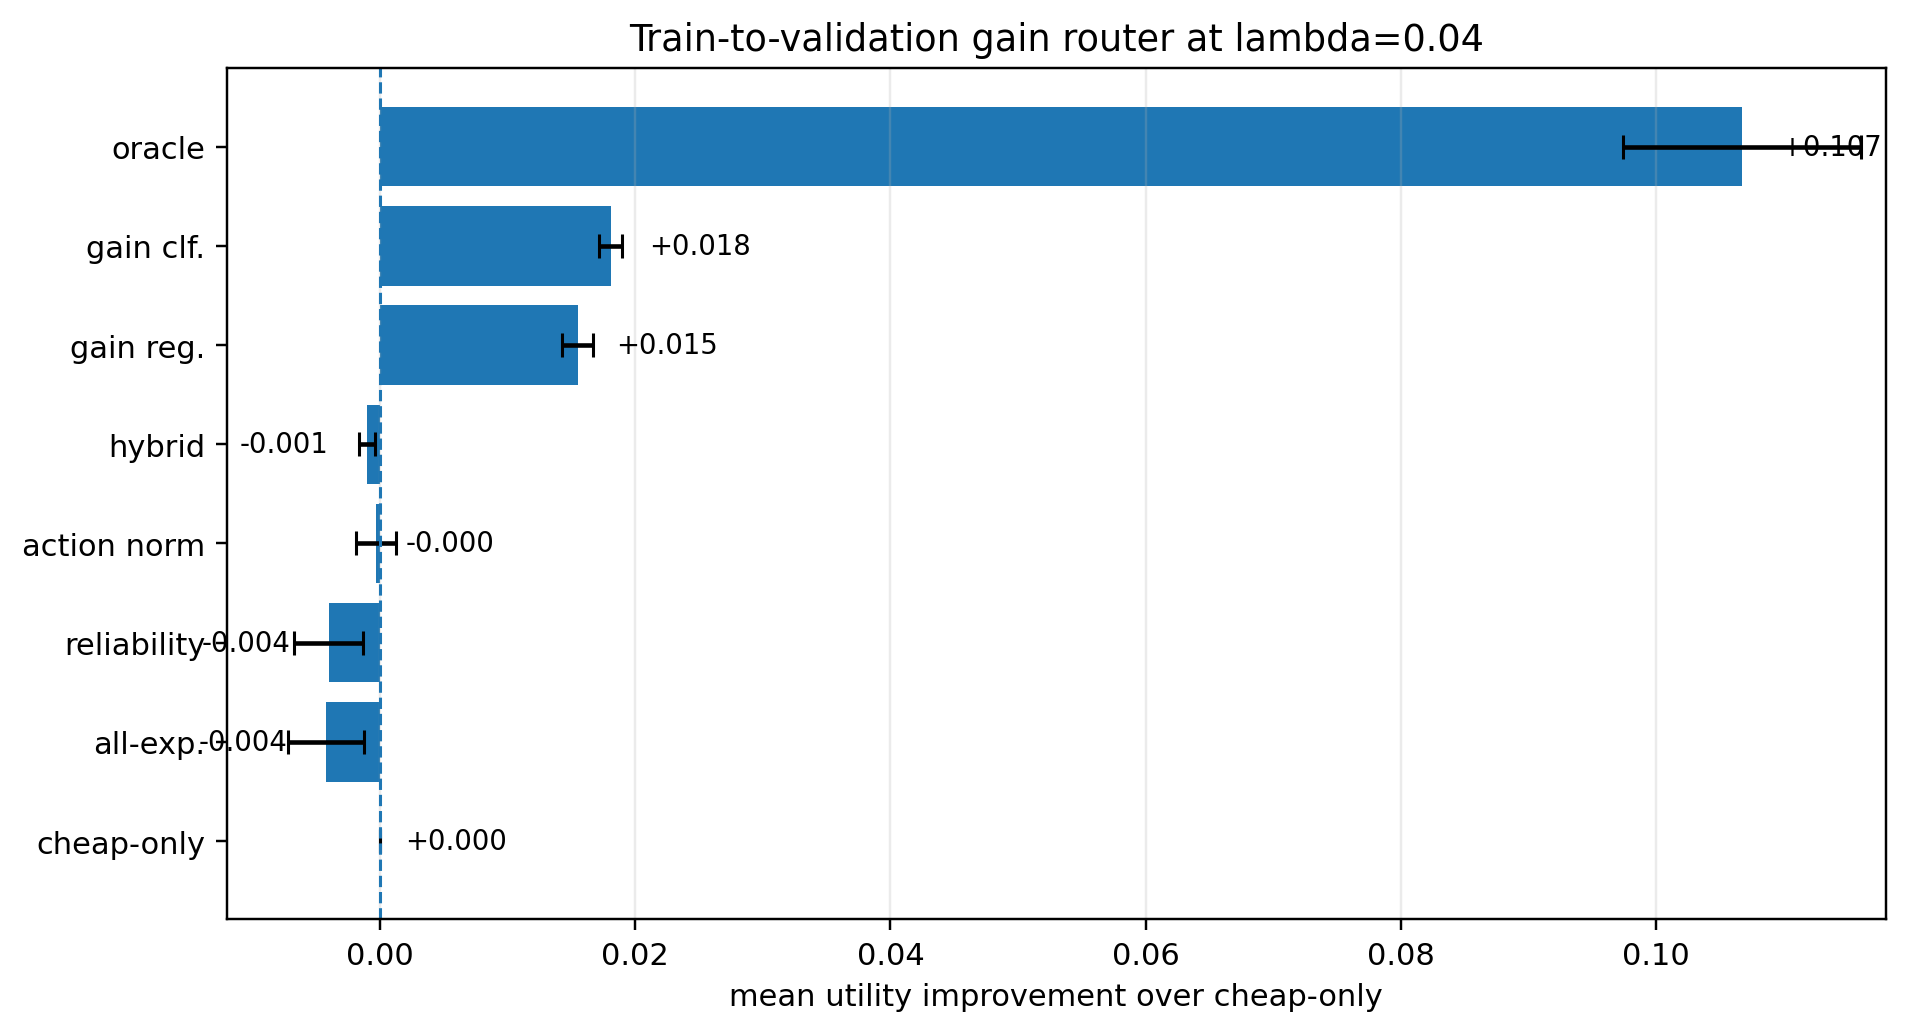
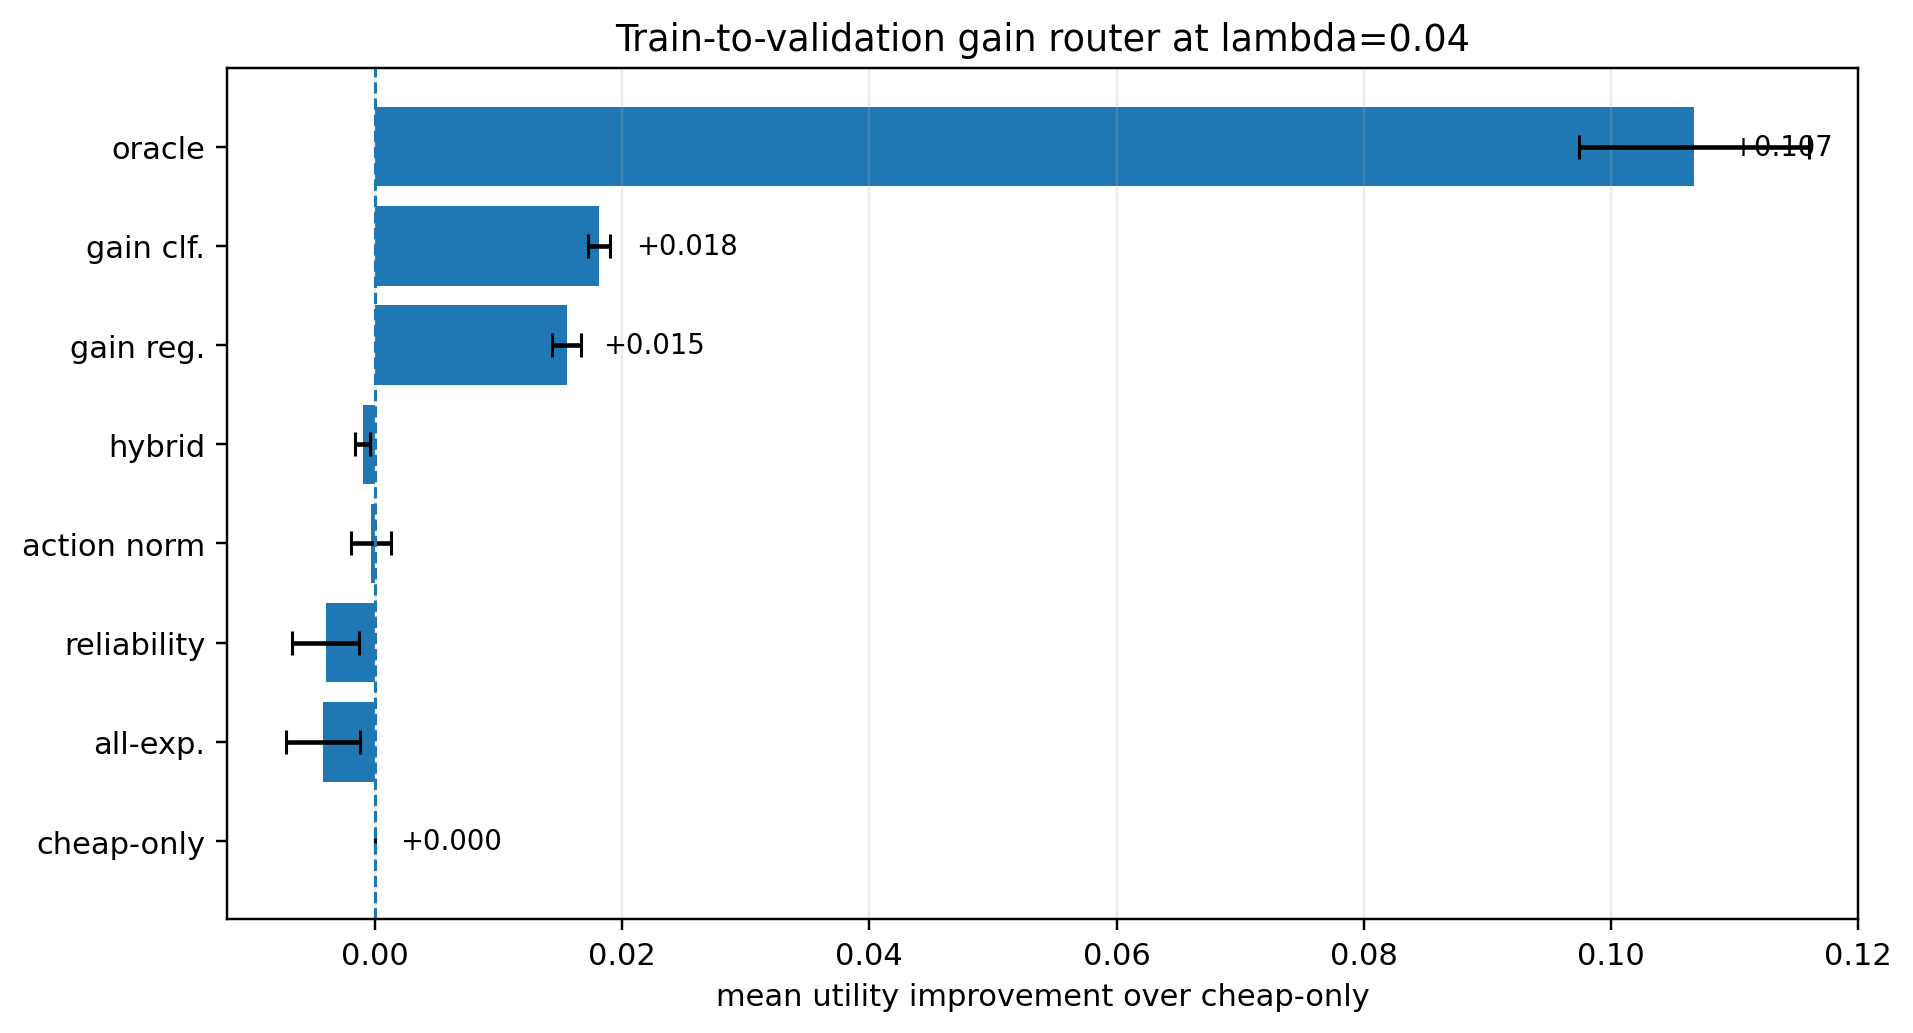
Clean train-to-validation gain router figure labels

diff --git a/scripts/plot_trainval_gain_router_clean.py b/scripts/plot_trainval_gain_router_clean.py
@@ -186,15 +186,15 @@ ax.set_title("Train-to-validation gain router at lambda=0.04")
 ax.set_xlabel("mean utility improvement over cheap-only")
 ax.grid(True, axis="x", alpha=0.25)
 
-for yi, g in zip(y, gains):
-    if abs(g) < 0.0005:
-        ax.text(0.002, yi, f"{g:+.3f}", va="center", ha="left", fontsize=9)
-    elif g > 0:
+for yi, g, lab in zip(y, gains, labels):
+    # Avoid clutter around the y-axis: only annotate the important positive gains
+    # and the cheap-only reference.
+    if lab == "cheap-only":
+        ax.text(0.002, yi, "+0.000", va="center", ha="left", fontsize=9)
+    elif g > 0.004:
         ax.text(g + 0.003, yi, f"{g:+.3f}", va="center", ha="left", fontsize=9)
-    else:
-        ax.text(g - 0.003, yi, f"{g:+.3f}", va="center", ha="right", fontsize=9)
 
-ax.set_xlim(-0.012, 0.118)
+ax.set_xlim(-0.012, 0.120)
 fig.tight_layout()
 fig.savefig(OUT / "trainval_gain_router_delta_utility_clean.png", bbox_inches="tight")
 plt.close(fig)
